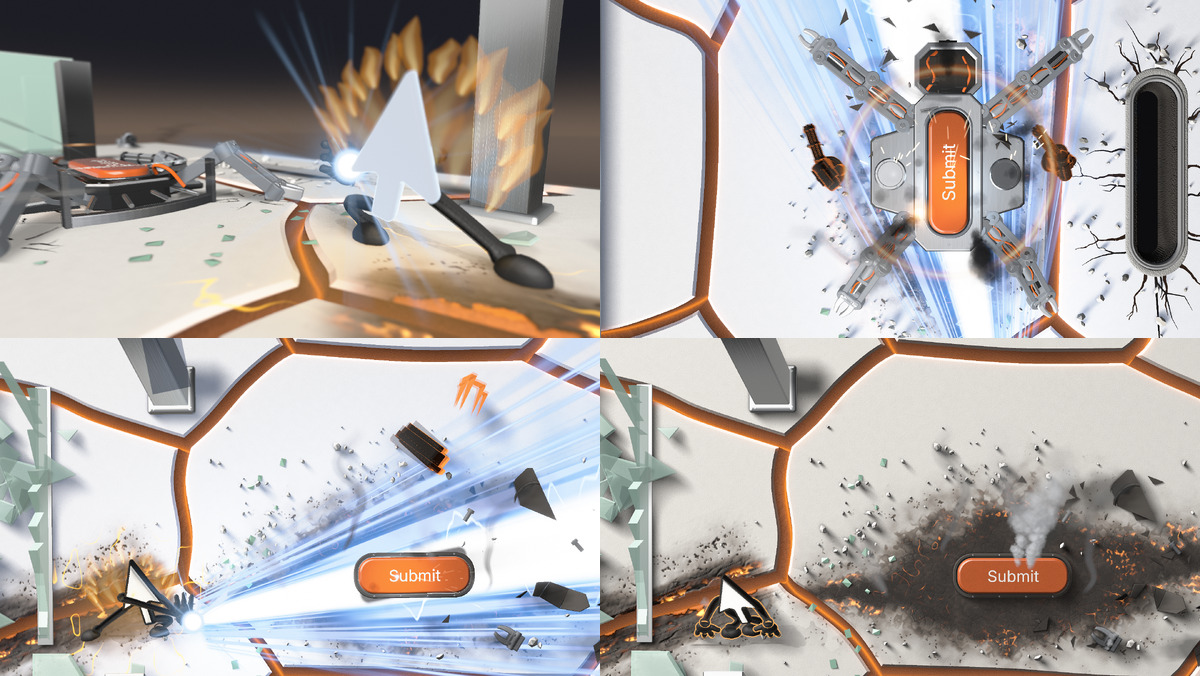
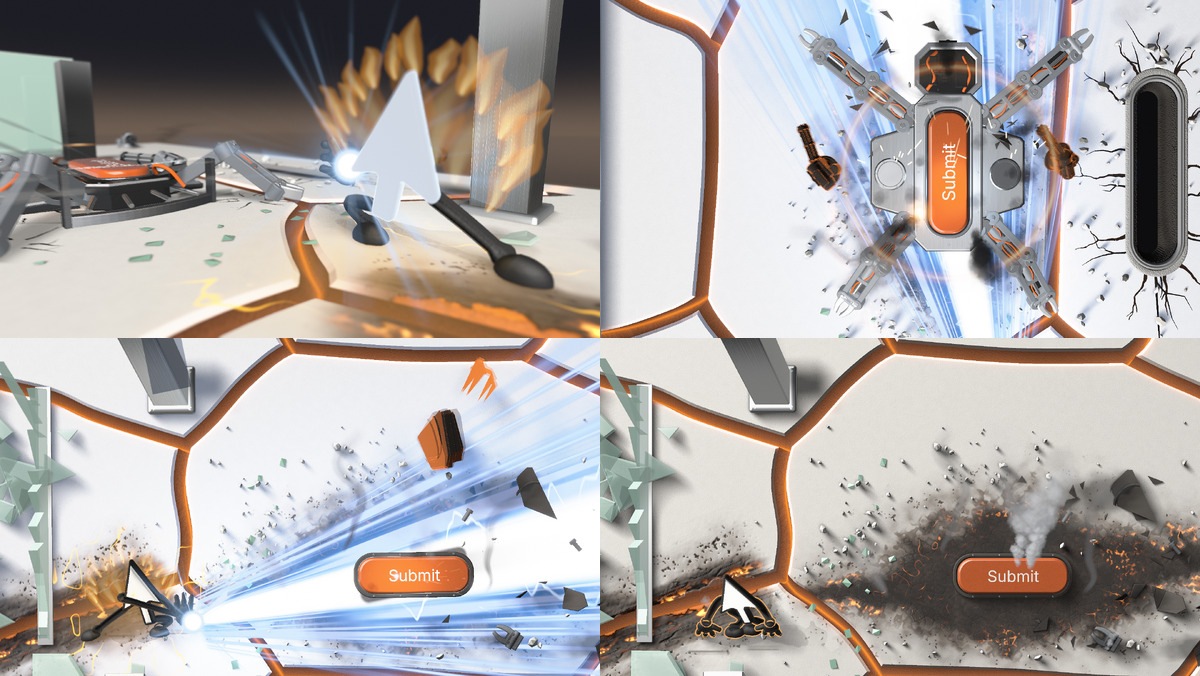
Take (d)'s two pictures drawn again from a forced build; the note says why the first two were wrong

diff --git a/pipeline/change002/camera.md b/pipeline/change002/camera.md
@@ -405,7 +405,9 @@ Film times in s after the arms (the arms are at 39.82 s of the film on this base
 
 What I SEE in eight frames each of the film with take (d) and take (e) (`proof/camera/rule-take-d-charge.jpg`, `rule-take-d-blast.jpg`, `rule-take-e-charge.jpg`, `rule-take-e-blast.jpg`; 40.9, 41.5 or 41.7, 42.0 or 42.3, 43.3, 43.8, 45.6, 47.0 or 47.1 and 47.6 s):
 
-- In the three frames of the charge view the camera and the arrow's pose are the same; the light between the hands, its rays and the ring of flames are larger in the second than in the first. From the second to the third the light is larger with take (e); with take (d) I cannot tell the two apart by size at this scale. The first two frames are before the first word.
+- In the three frames of the charge view the camera and the arrow's pose are the same; the light between the hands, its rays and the ring of flames are larger in each frame than in the one before, with both takes. The first two frames are before the first word.
 - At 43.3 s the view is close behind the arrow's shoulder in the turn; at 43.8 s it is behind the arrow with the boss ahead; at 45.6 s it is from above with the beam over the boss and pieces in the air.
 - At 47.0 s (take (d), 0.10 s before the body is gone) and at 47.1 s (take (e), 0.03 s before) the view is from above with the page's lines where they are at 47.6 s, the beam still burns and one last piece is leaving. At 47.6 s the beam is out and the arrow stands; the view does not turn under its walk.
 - The tool that draws these frames draws no caption, so the words on screen are not in them.
+
+A fault of mine, mended at 14:57Z: the two pictures of take (d) in 1f0b9f73 were take (e)'s build drawn at (d)'s times. The frame tool builds again only when the source hashes change (`buildIsCurrent` in `tools/lib/hashes.mjs`), and a new take in `public/audio/index.json` alone does not change them. Found because the two sets were equal to the pixel at five times. The pictures here are from a forced build (`out/work/build-info.json` removed before the run); against take (e) they differ at all five times. The frames of (b) and (c) were drawn the same way and show the same eight views, with the page's lines at 47.1 s (b) and 47.0 s (c) where they are at 47.6 s.
